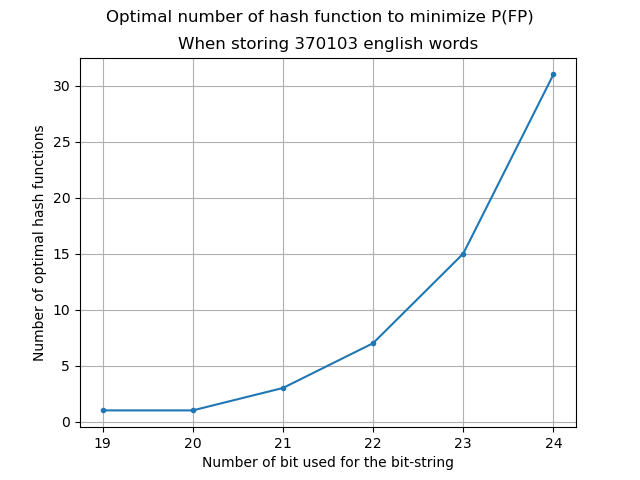
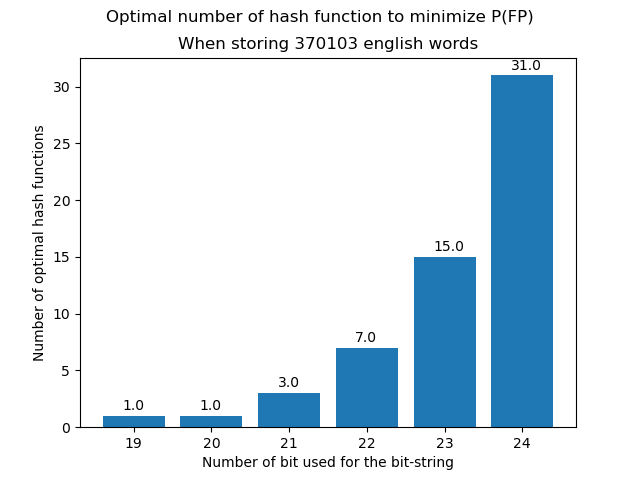
charts fixed

diff --git a/Lab3/graph_script.py b/Lab3/graph_script.py
@@ -67,7 +67,7 @@ def plot_size_graph(input_filename,output_filename, bloom_filter=False):
             
     plt.plot(b, size, marker='.')
     plt.xlabel('Number of bit used for the bit-string')
-    plt.ylabel('Actual storage size [kb]')
+    plt.ylabel('Actual storage size [KB]')
     plt.grid()
     if bloom_filter:
         title = "Actual storage vs #bits used - Bloom Filter"
@@ -137,10 +137,12 @@ def plot_kopt_vs_bits(input_filename,output_filename):
                 b.append(int(row[0]))
                 k_opt.append(float(row[6]))                
             
-    plt.plot(b, k_opt, marker='.')
+    bars = plt.bar(b, k_opt)
+    for bar in bars:
+        yval = bar.get_height() 
+        plt.text(bar.get_x() +.25, yval+.5, yval)
     plt.xlabel('Number of bit used for the bit-string')
     plt.ylabel('Number of optimal hash functions')
-    plt.grid()
     title = "Optimal number of hash function to minimize P(FP)"
     plt.title('When storing 370103 english words')
     plt.suptitle(title)
